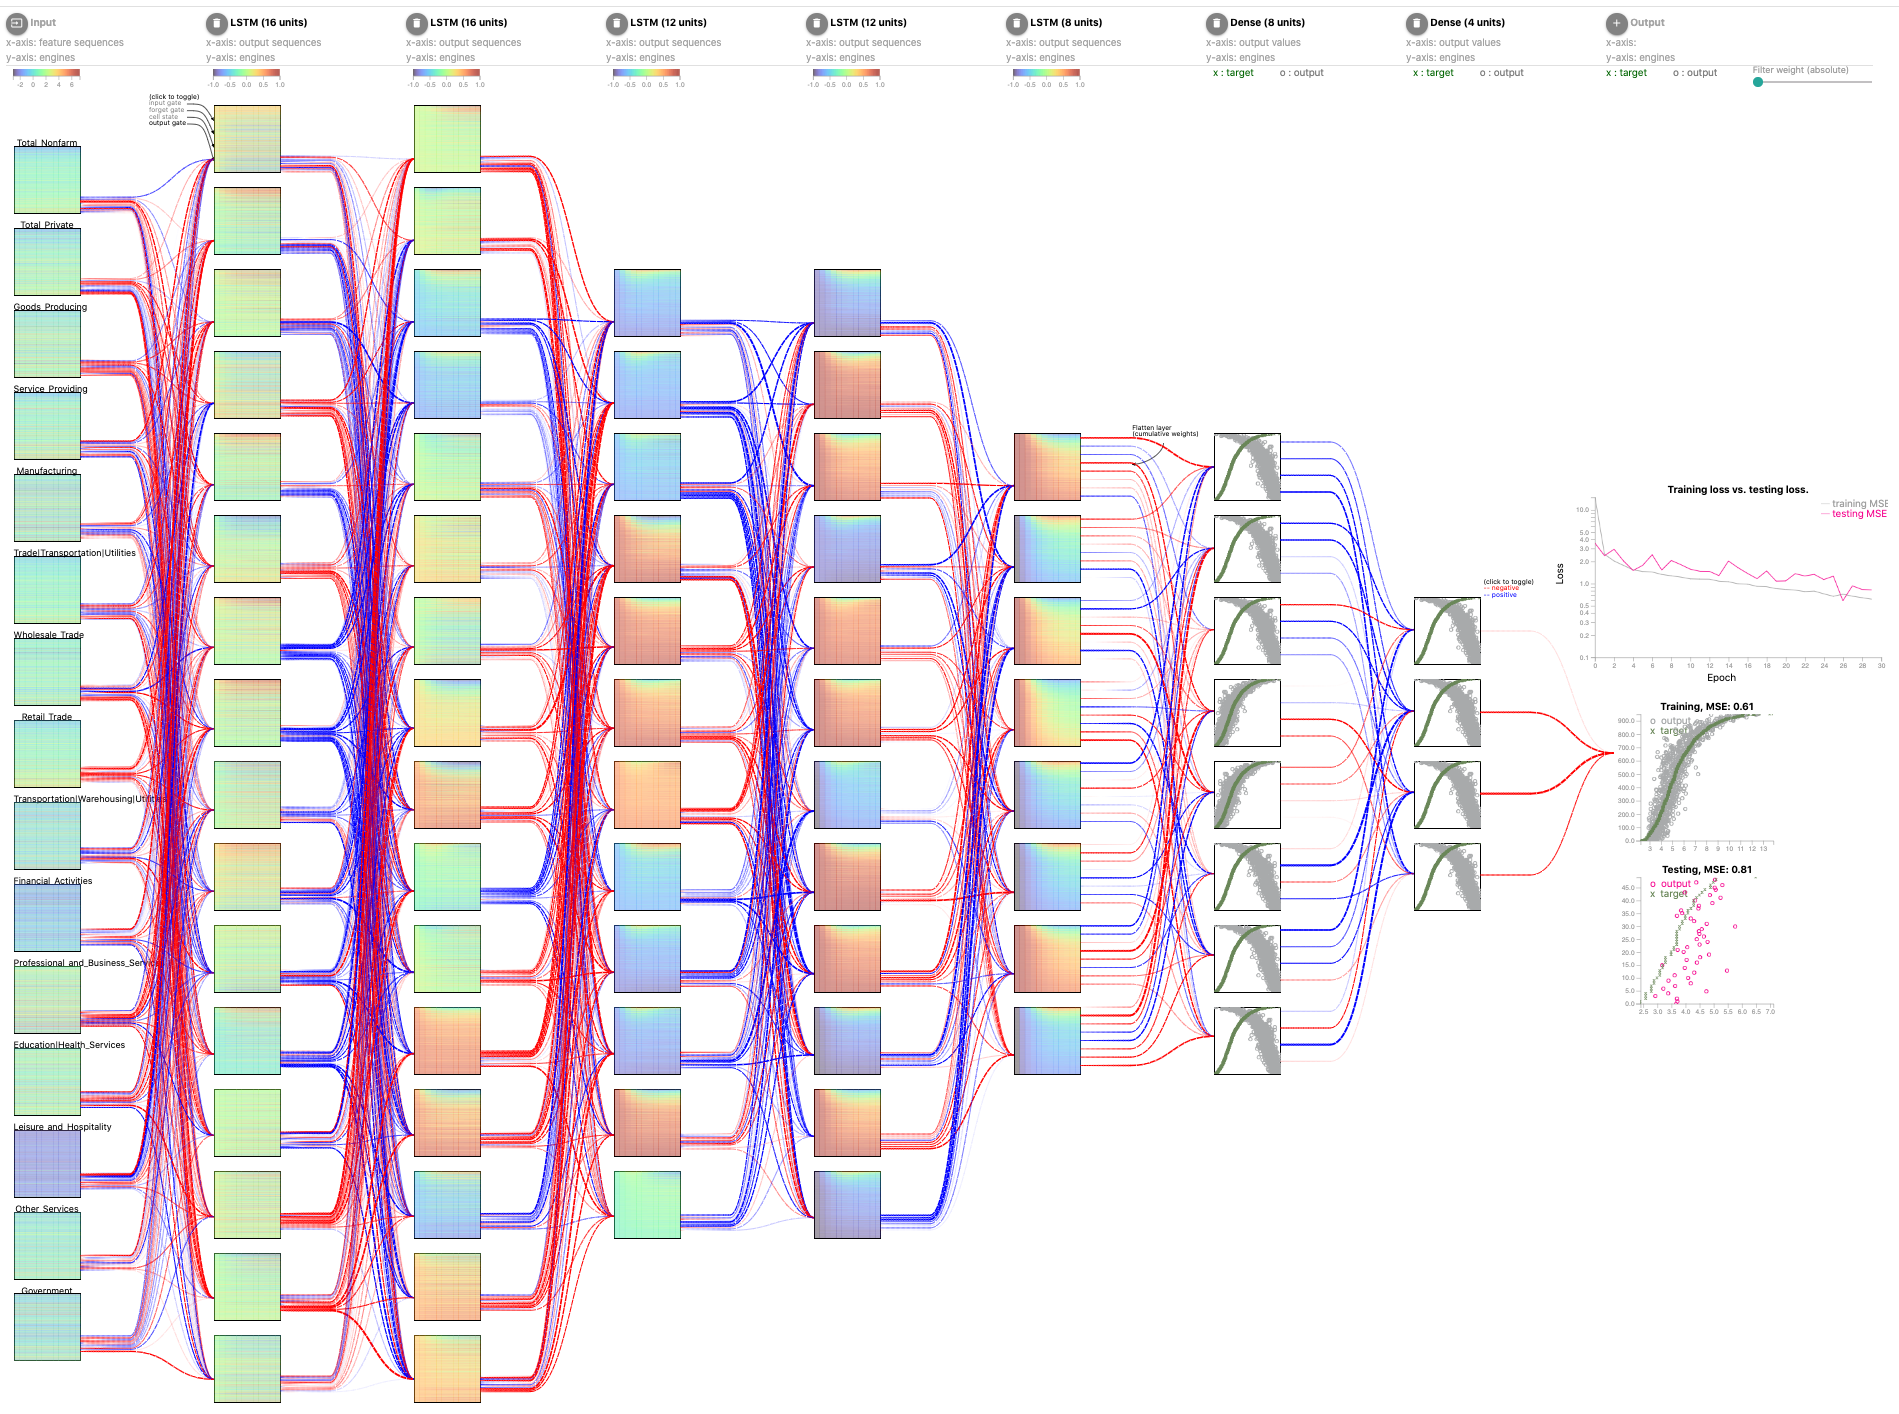
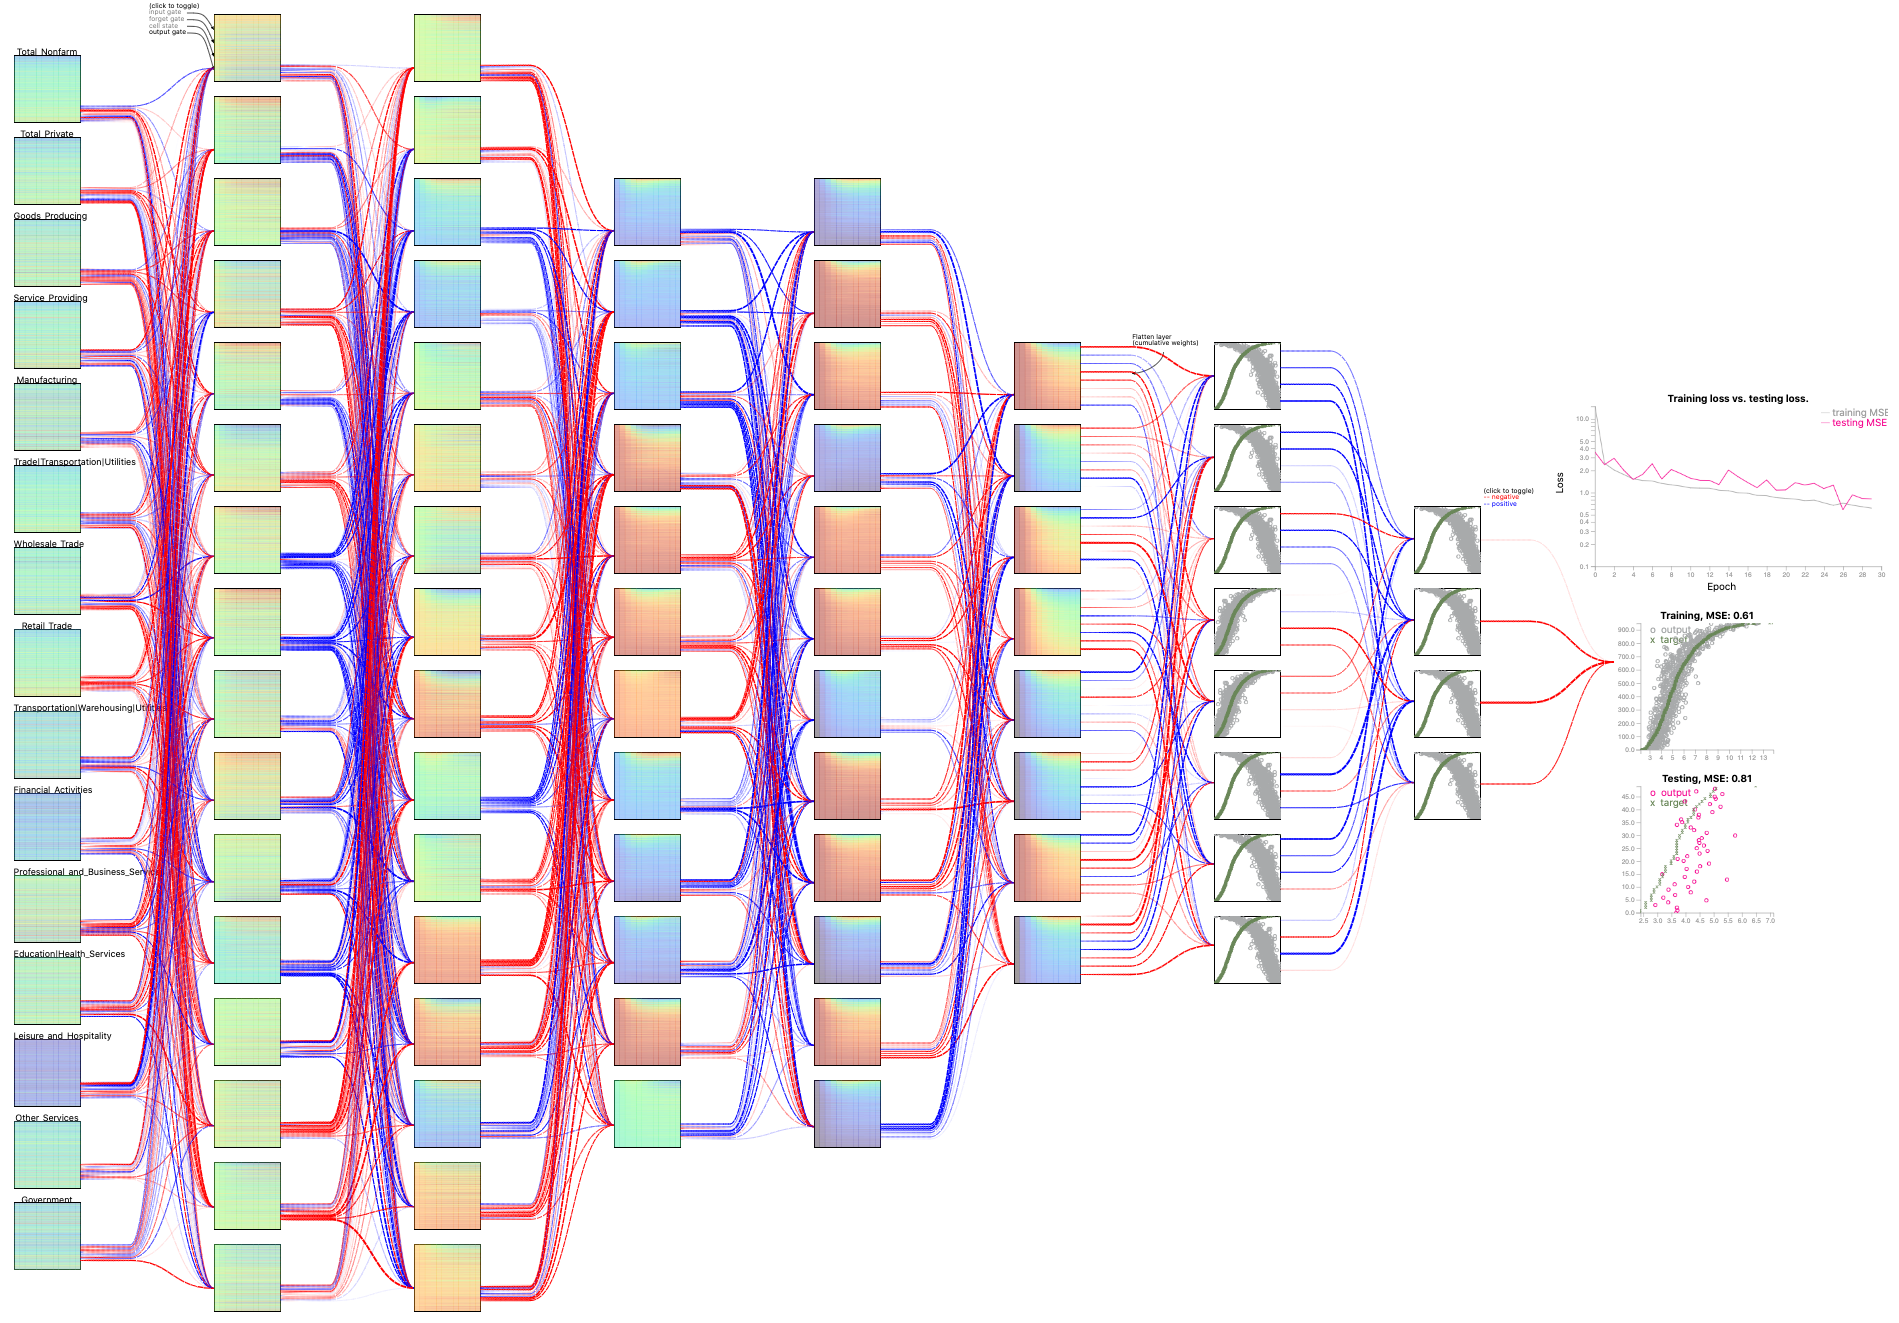
up

diff --git a/VCNN/usecases.html b/VCNN/usecases.html
@@ -24,26 +24,43 @@
     </div>
 </nav>
 
-<div style="width: 90%; margin-top: 30px; margin-left: auto; margin-right: auto">
+<div style="width: 90%; margin-top: 20px; margin-left: auto; margin-right: auto">
+    <div class="row col s12" style="width: fit-content; margin-left: auto; margin-right: auto; ">
+        <a href="index.html" class="btn btn-menu" id="video">VIDEO</a>
+        <a href="#" class="btn btn-menu" id="article">Use cases</a>
+        <a href="demo.html" class="btn btn-menu" id="demo">DEMO</a>
+    </div>
+
     <div style="width: 100%">
-        <h5 style="width: fit-content; color: black;">High Performance Computing Data: HPC
+        <h5 style="width: fit-content; color: #545454;">High Performance Computing Data: HPC
             health prediction</h5>
+        <h6 style="width: fit-content; color: #545454;">Configuration: L16-L16-L12-L12-L8-D8-D4 (L: LSTM, D: Dense)</h6>
         <div style="margin-left: auto; margin-right: auto; width: fit-content">
             <img class="responsive-img" src="img/HPC_large_model.png">
         </div>
     </div>
 
     <div style="width: 100%">
-        <h5 style="width: fit-content; color: black">SP500 Stock Data: Stock price prediction</h5>
+        <h5 style="width: fit-content; color: #545454">SP500 Stock Data: Stock price prediction</h5>
+        <h6 style="width: fit-content; color: #545454;">Configuration: L16-L16-L12-L12-L8-D8-D4 (L: LSTM, D: Dense)</h6>
         <div style="margin-left: auto; margin-right: auto; width: fit-content">
             <img class="responsive-img" src="img/stock_large_model_2.png">
         </div>
     </div>
 
     <div style="width: 100%">
-        <h5 style="width: fit-content; color: black">US Employment Data: Unemployment rate prediction</h5>
+        <h5 style="width: fit-content; color: #545454">US Employment Data: Unemployment rate prediction</h5>
+        <h6 style="width: fit-content; color: #545454;">Configuration: L16-L16-L12-L12-L8-D8-D4 (L: LSTM, D: Dense)</h6>
         <div style="margin-left: auto; margin-right: auto; width: fit-content">
             <img class="responsive-img" src="img/EMP_large_model.png">
+        </div>
+    </div>
+
+    <div style="width: 100%">
+        <h5 style="width: fit-content; color: #545454">US Employment Data: Unemployment rate prediction</h5>
+        <h6 style="width: fit-content; color: #545454;">Configuration: L64-L64-L48-L32-L16-D16-D8-D4 (L: LSTM, D: Dense)</h6>
+        <div style="margin-left: auto; margin-right: auto; width: fit-content">
+            <img class="responsive-img" src="img/emp_super_large_model.png">
         </div>
     </div>
 

diff --git a/VCNN/demo.html b/VCNN/demo.html
@@ -41,16 +41,9 @@
 
 <!--<editor-fold desc="Header">-->
 <nav class="nav-wrapper indigo">
-    <div class="container">
+    <div class="container" style="margin-left: auto;margin-right: auto; width: 100%">
         <a href="#" class="brand-logo">DeepViz: Explaining Long Short-Term Memory Network With High Dimensional Time
             Series Data</a>
-<!--        <ul class="right">-->
-<!--            <li><a href="#article"><span>Article</span></a></li>-->
-<!--            <li><a href="#" onclick="toast('Will be updated after notification status')"><span>Github</span></a>-->
-<!--            </li>-->
-<!--            <li><a href="#" onclick="toast('Will be updated after notification status')"><span>Contact</span></a>-->
-<!--            </li>-->
-<!--        </ul>-->
     </div>
 </nav>
 <div class="divider" style="margin-bottom: 10px;"></div>

diff --git a/VCNN/lib/charts.min.js b/VCNN/lib/charts.min.js
@@ -6791,11 +6791,11 @@
 
             console.log(minZ, maxZ);
 
-            this.settings.colorScale = d3.scaleSequential()
-                .interpolator(d3.interpolateTurbo)
-                // .domain([this.settings.minValue, this.settings.maxValue])
-                .domain([minZ, maxZ])
-                .clamp(true);
+            // this.settings.colorScale = d3.scaleSequential()
+            //     .interpolator(d3.interpolateTurbo)
+            //     // .domain([this.settings.minValue, this.settings.maxValue])
+            //     .domain([minZ, maxZ])
+            //     .clamp(true);
 
             var container = select(htmlContainer).append("div")
                 .style("width", this.settings.width + "px")

diff --git a/VCNN/js/index.js b/VCNN/js/index.js
@@ -34,8 +34,8 @@ function updateInputs() {
                 let num = "";
                 // loadAllPretrainModelFromServer("arrTemp0_ts100_e30_b8_lr0005_L8L8D8D4_"+num);
                 // loadAllPretrainModelFromServer("stock_ts4_e100_b8_lr0005_L8L8D8D4_" + num);
-                // loadModelFromServer("emp_super_large_settings" + num);
-                loadModelFromServer("stock_large_model_2" + num);
+                loadModelFromServer("emp_super_large_settings" + num);
+                // loadModelFromServer("stock_large_model_2" + num);
             }
             // loadAllPretrainModelFromServerV2(target_variable_V2);
         });

diff --git a/VCNN/index.html b/VCNN/index.html
@@ -25,7 +25,7 @@
     </div>
 </nav>
 
-<div class="container" style="margin-top: 50px">
+<div class="container" style="margin-top: 20px">
     <div class="row col s12" style="width: fit-content; margin-left: auto; margin-right: auto; ">
         <a href="#" class="btn btn-menu" id="video">VIDEO</a>
         <a href="usecases.html" class="btn btn-menu" id="article">Use cases</a>
